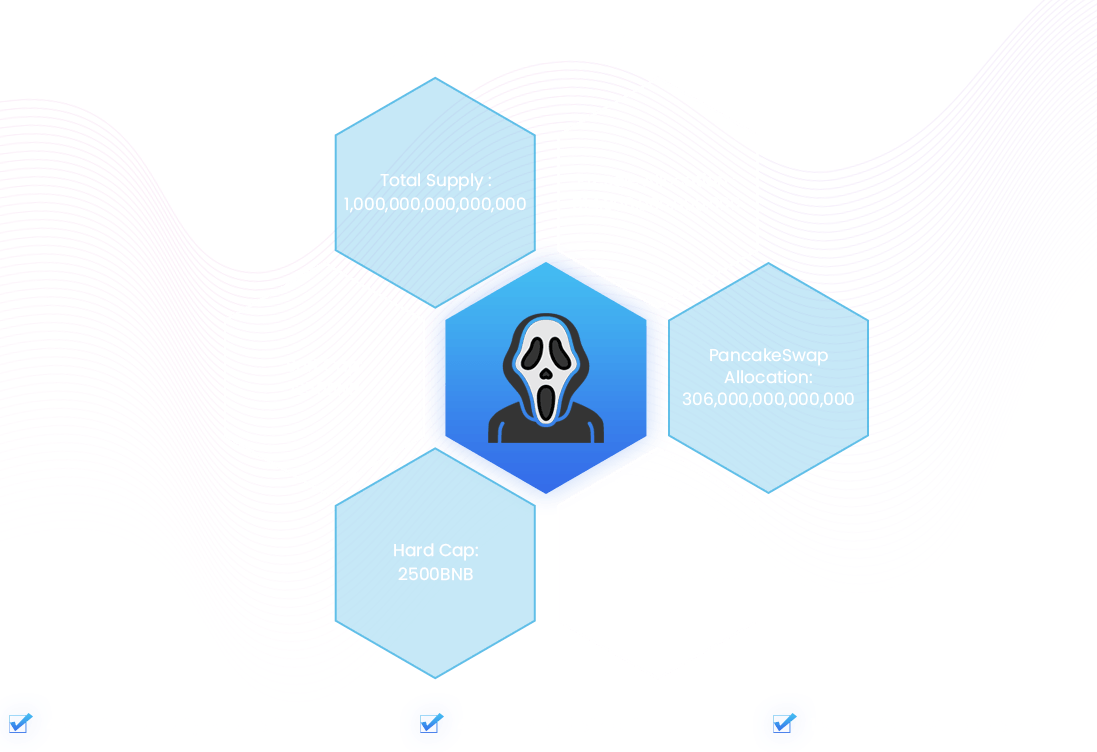
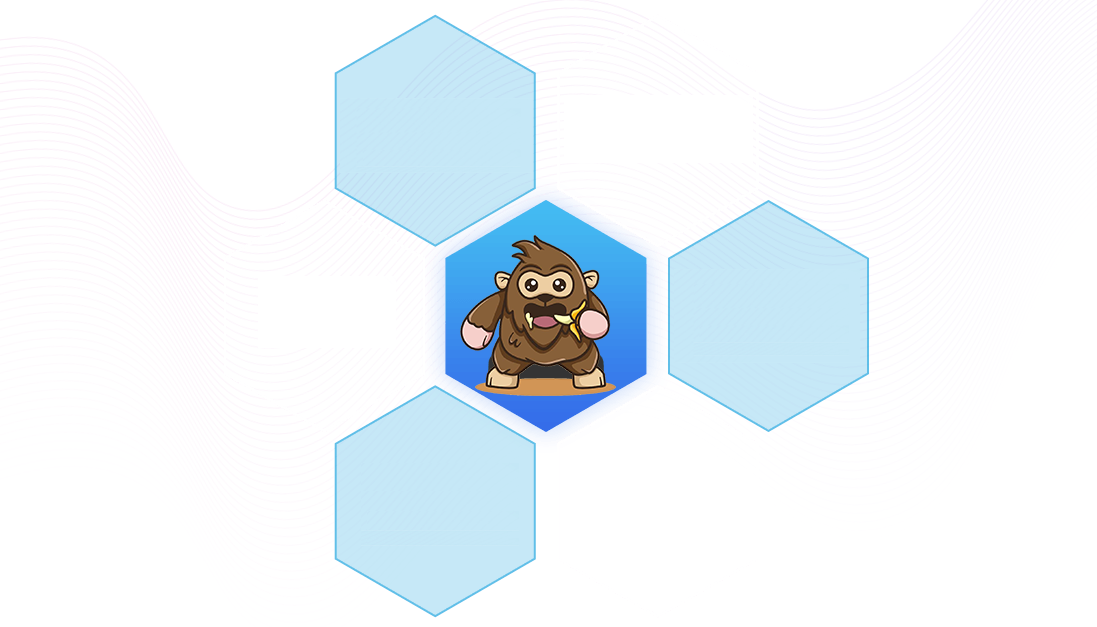
add scroll animation, link, change design

diff --git a/src/pages/Home/index.tsx b/src/pages/Home/index.tsx
@@ -1,4 +1,4 @@
-import React from 'react';
+import React, {useEffect} from 'react';
 
 import * as S from './styles';
 import Faq from "~/pages/Home/faq";
@@ -87,6 +87,16 @@ const faqs = [
 ]
 
 const Home: React.FC = () => {
+  useEffect(() => {
+
+    const script = document.createElement("script");
+
+    script.src = "/js/scroll.js";
+    script.async = true;
+
+    document.body.appendChild(script);
+  });
+
   return (
     <S.Container>
 
@@ -113,7 +123,7 @@ const Home: React.FC = () => {
                 </div>
               </div>
             </div>
-            <div className="col-xl-6 col-lg-6 img-main scroll slide-right scrolled">
+            <div className="col-xl-6 col-lg-6 img-main">
               <img src="/images/main_t.png" alt="Ghost Face Icon" className="img-fluid"/>
             </div>
           </div>
@@ -187,7 +197,7 @@ const Home: React.FC = () => {
 
       <S.Section id="features" className="features">
         <S.Content className="col-sm-12 col-md-11 col-lg-10 col-xl-9 py-16">
-          <div className="row scroll fade-in-bottom scrolled">
+          <div className="row scroll fade-in-bottom">
             <div className="col-lg-12 col-xl-12 text-center text-lg-left mb-4 mb-md-5 mb-lg-0">
               <div className="text-center">
                 <h2 className="title">FEATURES</h2>
@@ -224,19 +234,36 @@ const Home: React.FC = () => {
 
       <S.Section id="tokenomics" className="tokenomics">
         <div className="tokenomics-back">
-          <S.Content className="col-sm-12 col-md-11 col-lg-10 col-xl-9 py-16">
-            <div className="row justify-content-between align-items-center">
-              <div
-                className="col-xl-12 col-lg-12 text-center text-lg-left mb-4 mb-md-5 mb-lg-0 scroll slide-right scrolled">
-                <img src="/images/scareonomics__.png" alt="Icon for Tokenomics" className="img-fluid"/>
+          <S.Content className="col-sm-12 col-md-11 col-lg-10 col-xl-9 py-16 scroll fade-in-bottom">
+            <div className="row align-items-center">
+              <div className="text-center">
+                <h2 className="title">SCAREONOMICS</h2>
+                <img src="/images/scareonomics__.png" alt="Icon for Tokenomics" className="scarenomics-img"/>
+                <div className="text-center scare-1">
+                  <label className="scare-1-text">Total Supply: <br/><span>1,000,000,000,000</span></label>
+                  <label className="scare-1-text">Presale Allocation: <br/><span>1,000,000,000,000</span></label>
+                </div>
+                <div className="text-center scare-2">
+                  <label className="scare-2-text">Soft Cap: <br/><span>1250BNB</span></label>
+                  <label className="scare-2-text">PancakeSwap: <br/><span>1,000,000,000,000</span></label>
+                </div>
+                <div className="text-center scare-3">
+                  <label className="scare-3-text">Hard Cap: <br/><span>1250BNB</span></label>
+                  <label className="scare-3-text">Liquidity Locked: <br/><span>1,000,000,000,000</span></label>
+                </div>
               </div>
+            </div>
+            <div className="row align-items-center">
+                <div className="col-md-4"><S.Check2SquareIcon size={24}/> 4% Auto Liquidity Acquisition</div>
+                <div className="col-md-4"><S.Check2SquareIcon size={24}/> 4% $BNB Redistribution</div>
+                <div className="col-md-4"><S.Check2SquareIcon size={24}/> 1% $GOSTFACE Redistribution</div>
             </div>
           </S.Content>
         </div>
       </S.Section>
 
       <S.Section id="documents" className="documents">
-        <S.Content className="col-sm-12 col-md-11 col-lg-10 col-xl-9 py-16">
+        <S.Content className="col-sm-12 col-md-11 col-lg-10 col-xl-9 py-16 scroll fade-in-bottom">
           <div className="text-center">
             <h2 className="title">DOCUMENTS</h2>
           </div>
@@ -263,20 +290,20 @@ const Home: React.FC = () => {
       </S.Section>
 
       <S.Section id="roadmap" className="loadmap">
-        <div className="text-center">
+        <div className="text-center scroll fade-in-bottom">
           <img src="/images/roadmap_1.png" alt="loadmap" className="w-full"/>
         </div>
       </S.Section>
 
       <S.Section id="questions" className="questions">
-        <S.Content className="col-sm-12 col-md-11 col-lg-10 col-xl-9 py-16">
+        <S.Content className="col-sm-12 col-md-11 col-lg-10 col-xl-9 py-16 scroll fade-in-bottom">
             <div id="faq" className="col-lg-12 col-xl-12 text-center text-lg-left mb-4 mb-md-5 mb-lg-0">
               <div className="text-center">
                 <h2 className="title">FREQUENTLY ASKED QUESTIONS</h2>
               </div>
             </div>
             {
-              faqs.map((faq, index) => <Faq index={index+1} question={faq.question} answer={faq.answer}/>)
+              faqs.map((faq, index) => <Faq key={index} index={index+1} question={faq.question} answer={faq.answer}/>)
             }
         </S.Content>
       </S.Section>
@@ -284,7 +311,7 @@ const Home: React.FC = () => {
 
 
       <S.Section id="checkout" className="checkout">
-        <S.Content className="col-sm-12 col-md-11 col-lg-10 col-xl-9 py-16">
+        <S.Content className="col-sm-12 col-md-11 col-lg-10 col-xl-9 py-16 scroll fade-in-bottom">
             <div className="text-center">
               <h2 className="title">CHECK IT OUT</h2>
             </div>

diff --git a/src/pages/Home/styles.ts b/src/pages/Home/styles.ts
@@ -6,6 +6,7 @@ import {Telegram} from '@styled-icons/bootstrap/Telegram';
 import {Twitter} from '@styled-icons/bootstrap/Twitter';
 import {EmailOutline} from '@styled-icons/evaicons-outline/EmailOutline';
 import {ChartLine} from '@styled-icons/fa-solid/ChartLine';
+import {Check2Square} from '@styled-icons/bootstrap/Check2Square';
 
 export const Container = styled.div`
   display: flex;
@@ -95,6 +96,92 @@ export const Section = styled.section`
       background-repeat: no-repeat;
       padding: 3rem 6rem 3rem 6rem;
   }
+  .scarenomics-img{
+    width: 1216px;
+  }
+  .scare-1{
+      position: absolute;
+      top: 270px;
+      width: 1216px;
+  }
+  .scare-2{
+      position: absolute;
+      top: 480px;
+      width: 1216px;
+  }
+  .scare-3{
+      position: absolute;
+      top: 690px;
+      width: 1216px;
+  }
+  .scare-1-text{
+      margin: 0 60px;
+  }
+  .scare-2-text{
+      margin: 0 200px;
+  }
+  .scare-3-text{
+      margin: 0 80px;
+  }
+   @media (max-width: 1216px) {
+      .scarenomics-img{
+        width: 900px;
+      }
+      .scare-1{
+          position: absolute;
+          top: 240px;
+          width: 900px;
+      }
+      .scare-2{
+          position: absolute;
+          top: 400px;
+          width: 900px;
+      }
+      .scare-3{
+          position: absolute;
+          top: 550px;
+          width: 900px;
+      }
+      .scare-1-text{
+          margin: 0 30px;
+      }
+      .scare-2-text{
+          margin: 0 140px;
+      }
+      .scare-3-text{
+          margin: 0 50px;
+      }
+  }
+   @media (max-width: 900px) {
+      .scarenomics-img{
+        opacity: 0;
+        width: 100%;
+      }
+      .scare-1{
+          position: absolute;
+          top: 240px;
+        width: 100%;
+      }
+      .scare-2{
+          position: absolute;
+          top: 300px;
+        width: 100%;
+      }
+      .scare-3{
+          position: absolute;
+          top: 360px;
+         width: 100%;
+      }
+      .scare-1-text{
+          margin: 0 10px;
+      }
+      .scare-2-text{
+          margin: 0 10px;
+      }
+      .scare-3-text{
+          margin: 0 10px;
+      }
+  }
   .box-credit {
     background-image: url(/images/sq1_t.png);
   }
@@ -146,7 +233,29 @@ export const Section = styled.section`
   .box-chart{
     background-color: rgb(153, 0, 153) !important;
   }
+  .scrolled.fade-in-bottom {
+    animation: fade-in-bottom 1s ease-in-out both;
+  }
+  .scroll.scrolled {
+      opacity: 1;
+  }
+  .scroll {
+      opacity: 0;
+      transition: opacity .5s;
+  }
+  @keyframes fade-in-bottom {
+    0% {
+        -webkit-transform: translateY(50px);
+        transform: translateY(50px);
+        opacity: 0
+    }
 
+    100% {
+        -webkit-transform: translateY(0);
+        transform: translateY(0);
+        opacity: 1
+    }
+  }
 `;
 
 export const Content = styled.div`
@@ -180,4 +289,9 @@ export const EmailIcon = styled(EmailOutline)`
 
 export const ChartIcon = styled(ChartLine)`
   color: white;
+`;
+
+export const Check2SquareIcon = styled(Check2Square)`
+   color: #007bff;
+   margin-right: 8px;
 `;

diff --git a/public/js/scroll.js b/public/js/scroll.js
@@ -1,0 +1,23 @@
+const scrollElements = document.querySelectorAll(".scroll")
+  , elementInView = (t,e=1)=>{
+    return t.getBoundingClientRect().top <= (window.innerHeight || document.documentElement.clientHeight) / e
+  }
+  , elementOutofView = t=>{
+    return t.getBoundingClientRect().top > (window.innerHeight || document.documentElement.clientHeight)
+  }
+  , displayScrollElement = t=>{
+    t.classList.add("scrolled")
+  }
+  , hideScrollElement = t=>{
+    t.classList.remove("scrolled")
+  }
+  , handleScrollAnimation = ()=>{
+    scrollElements.forEach(t=>{
+        elementInView(t, 1.25) ? displayScrollElement(t) : elementOutofView(t) && hideScrollElement(t)
+      }
+    )
+  }
+;
+window.addEventListener("scroll", ()=>{
+  handleScrollAnimation()
+});

diff --git a/src/components/DashboardHeader/index.tsx b/src/components/DashboardHeader/index.tsx
@@ -12,9 +12,11 @@ const Header: React.FC<Props> = ({onConnect}) => {
     <S.Container>
       <S.Content>
         <S.Logo className="float-none">
-          <img src={"/images/logo.png"} alt={"logo"}/>
+          <a href="/">
+            <img src={"/images/logo.png"} alt={"logo"}/>
+          </a>
         </S.Logo>
-        <a className="btn btn-primary get-started-btn" onClick={() =>onConnect()}>Connect</a>
+        <a className="btn btn-primary connect-btn" onClick={() =>onConnect()}>Connect</a>
       </S.Content>
     </S.Container>
   );

diff --git a/src/components/HomeHeader/index.tsx b/src/components/HomeHeader/index.tsx
@@ -25,7 +25,9 @@ const Header: React.FC<Props> = () => {
           </li>
         </ul>
         <S.Logo className="float-none">
-          <img src={"/images/logo.png"} alt={"logo"}/>
+          <a href="/">
+            <img src={"/images/logo.png"} alt={"logo"}/>
+          </a>
         </S.Logo>
         <ul className="nav justify-content-center nav-fill w-full">
           <li className="nav-item p-1">

diff --git a/src/pages/Home/faq.tsx b/src/pages/Home/faq.tsx
@@ -9,7 +9,7 @@ interface Props {
 const Faq: React.FC<Props> = ({index, question, answer}) => {
   const [show, setShow] = useState(false);
   return (
-    <div key={index}>
+    <div>
       <button className="faq" onClick={() => setShow(!show)}>
         <span className="faq-mark">Q{index}:</span>
         {question}

diff --git a/src/components/DashboardHeader/styles.ts b/src/components/DashboardHeader/styles.ts
@@ -19,7 +19,7 @@ export const Content = styled.div`
     margin: 0 20px;
   }
 
-  a{
+  .connect-btn {
     margin-left: 25px;
     border-radius: 50px;
     padding: 6px 25px 7px;
